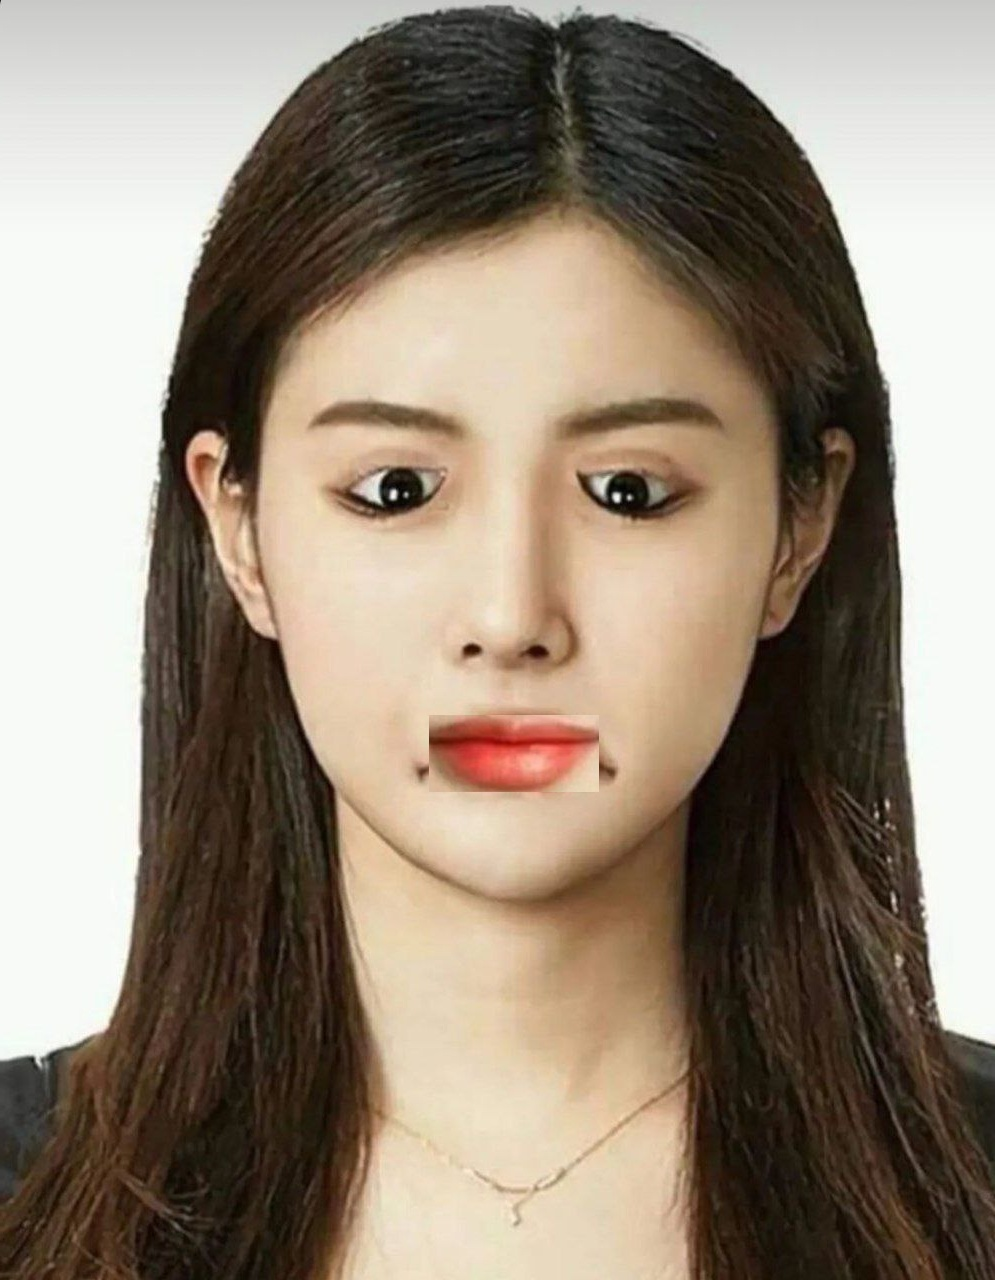
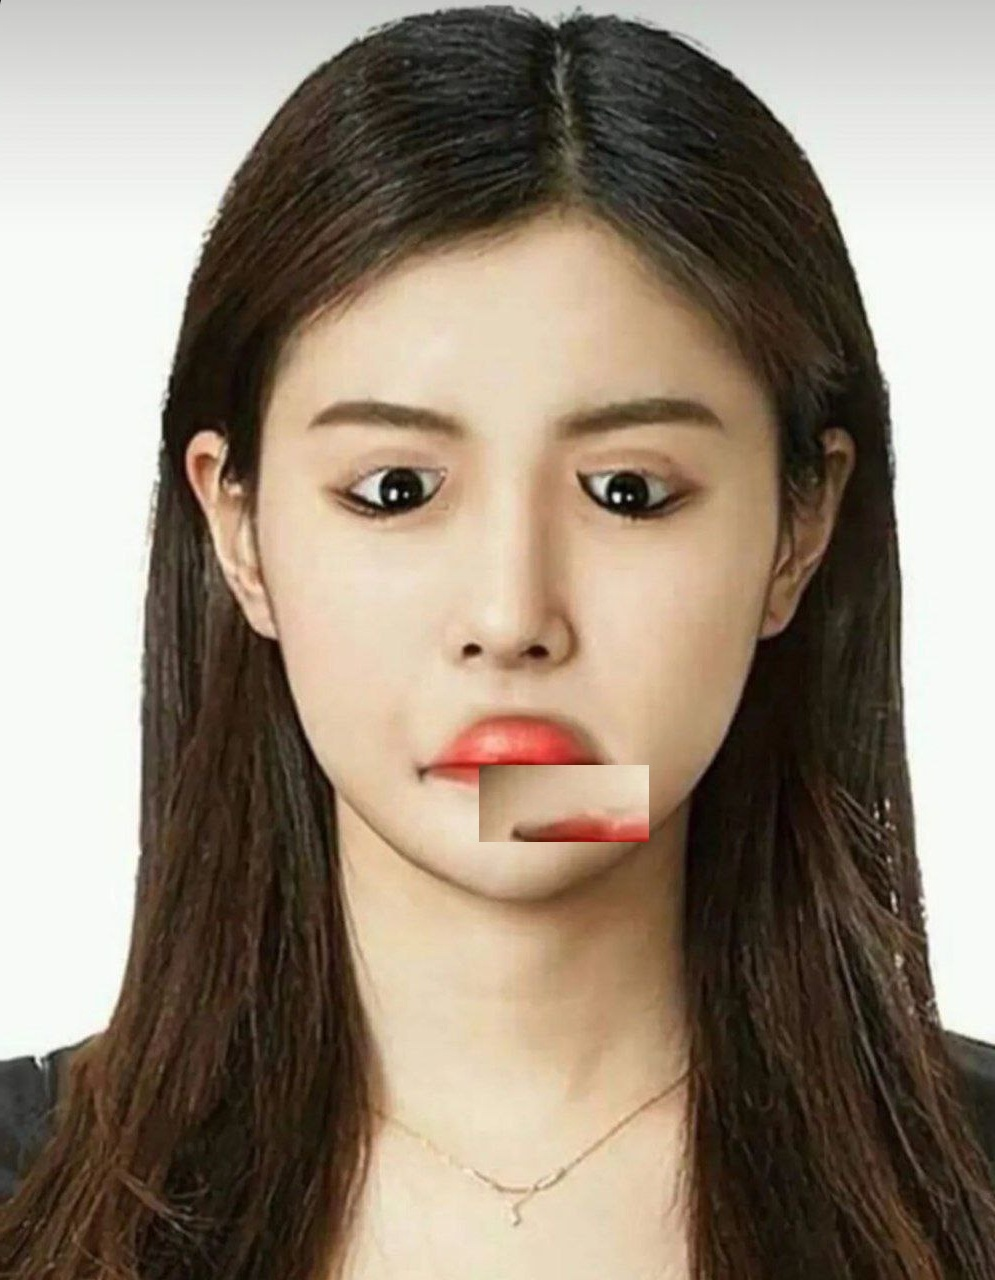
7th commit

Changed region(s): [[0.405, 0.5312, 0.6543, 0.6562]]

diff --git a/PyLearn7-Assignment30/strange portrait/inference_image_1.py b/PyLearn7-Assignment30/strange portrait/inference_image_1.py
@@ -6,16 +6,12 @@ import time
 from TFLiteFaceDetector import UltraLightFaceDetecion
 from TFLiteFaceAlignment import CoordinateAlignmentModel
 
-# apple = cv2.imread("input/apple2.jpg")
-def effect (file_path, landmark):
+
+def rotate (image, landmark):
 
     fd = UltraLightFaceDetecion("weights/RFB-320.tflite", conf_threshold=0.88)
     fa = CoordinateAlignmentModel("weights/coor_2d106.tflite")
 
-    image = cv2.imread(file_path)
-    apple = cv2.imread("input/apple2.jpg")
-    # apple = apple.astype(np.float32)
-    # print(apple)
     color = (125, 255, 125)
 
     start_time = time.perf_counter()
@@ -32,10 +28,6 @@ def effect (file_path, landmark):
             for i in [52, 55, 56, 53, 59, 58, 61, 68, 67, 71, 63, 64]:
                 organ_landmarks.append(pred[i])
             organ_landmarks = np.array(organ_landmarks, dtype=int)
-
-            print("* * *")
-            print(organ_landmarks)
-            print("* * *")
 
         if landmark == "left eye":
             for i in [35, 36, 33, 37, 39, 42, 40, 41, 35]:
@@ -55,53 +47,32 @@ def effect (file_path, landmark):
 
         result = image * mask
         result = result [y:y+h, x:x+w]
+        
+        hh, ww, _ = result.shape
+        
+        for i in range(hh):
+            for j in range(ww):
+                if result[i][j][0] == 0 and result[i][j][1] == 0 and result[i][j][2] == 0:
+                    result[i][j] = image[y+i, x+j]
 
-        result_big = cv2.resize(result, (0, 0), fx=6, fy=6)
-        hh, ww, _ = result_big.shape
-        
-        hhh, www, _ = apple.shape
-        lip_loc = [int(hhh//1.7), int(www//2.65)]
-        left_eye_loc = [int(hhh//2.3), int(www//2.8)]
-        right_eye_loc = [int(hhh//2.3), int(www//1.9)]
-        # apple = apple.astype(np.uint8)
-        if landmark == "lips":
-            for i in range(hh):
-                for j in range(ww):
-                    if result_big[i][j][0] == 0 and result_big[i][j][1] == 0 and result_big[i][j][2] == 0:
-                        result_big[i][j] = apple[lip_loc[0]+i, lip_loc[1]+j]
-            apple[lip_loc[0]:lip_loc[0] + hh, lip_loc[1]:lip_loc[1] + ww] = result_big
-            # apple1 = cv2.imread("output/output apple2.jpg")
-                            
-        if landmark == "left eye":
-            for i in range(hh):
-                for j in range(ww):
-                    if result_big[i][j][0] == 0 and result_big[i][j][1] == 0 and result_big[i][j][2] == 0:
-                        result_big[i][j] = apple[left_eye_loc[0]+i, left_eye_loc[1]+j]
-            apple[left_eye_loc[0]:left_eye_loc[0] + hh, left_eye_loc[1]:left_eye_loc[1] + ww] = result_big
-            # cv2.imwrite("output/output apple3.jpg", apple1)
-        # apple1 = cv2.imread("output/output apple2.jpg")
+        result_rotated = cv2.rotate(result, 1)
+        if landmark == "left eye" or landmark == "right eye":
+            result_rotated = np.fliplr(result_rotated)
 
-        if landmark == "right eye":
-            for i in range(hh):
-                for j in range(ww):
-                    if result_big[i][j][0] == 0 and result_big[i][j][1] == 0 and result_big[i][j][2] == 0:
-                        result_big[i][j] = apple[right_eye_loc[0]+i, right_eye_loc[1]+j]
-            apple[right_eye_loc[0]:right_eye_loc[0] + hh, right_eye_loc[1]:right_eye_loc[1] + ww] = result_big
-        
-        
-        # apple[lip_loc[0]:lip_loc[0] + hh, lip_loc[1]:lip_loc[1] + ww] = result_big
-        
+        image[y:y + hh, x:x + ww] = result_rotated
+
     
     print(time.perf_counter() - start_time)
 
-    cv2.imshow("result", result_big)
+    cv2.imshow("result", image)
     cv2.waitKey()
-    cv2.imwrite("output/" + landmark + ".jpg", result_big)
-    cv2.imwrite("input/apple2.jpg", apple)
+    cv2.imwrite("input/image.jpg", image)
     
-    return result_big
-    
+    return result
 
-zoom_effect("input\image22.jpg", "lips")
-zoom_effect("input\image22.jpg", "left eye")
-zoom_effect("input\image22.jpg", "right eye")
+image = cv2.imread("input\image.jpg")
+image = cv2.rotate(image, 1)
+
+rotate(image, "lips")
+rotate(image, "left eye")
+rotate(image, "right eye")

diff --git a/PyLearn7-Assignment30/strange portrait/inference_image.py b/PyLearn7-Assignment30/strange portrait/inference_image.py
@@ -41,22 +41,23 @@ for pred in fa.get_landmarks(image, boxes):
 
 
     x, y, w, h = cv2.boundingRect(lips_landmarks)
+   
     mask = np.zeros(image.shape, dtype=np.uint8)
     cv2.drawContours(mask, [lips_landmarks], -1, (255, 255, 255), -1)
     mask = mask // 255
     
     lips = image * mask
     lips = lips [y:y+h, x:x+w]
-    hh, ww, _ = lips.shape
+    h_l, w_l, _ = lips.shape
     
 
-    for i in range(hh):
-        for j in range(ww):
+    for i in range(h_l):
+        for j in range(w_l):
             if lips[i][j][0] == 0 and lips[i][j][1] == 0 and lips[i][j][2] == 0:
                 lips[i][j] = image[y+i, x+j]
 
     lips_rotated = cv2.rotate(lips, 1)
-    image[y:y + hh, x:x + ww] = lips_rotated
+    image[y:y + h_l, x:x + w_l] = lips_rotated
 
     
 
